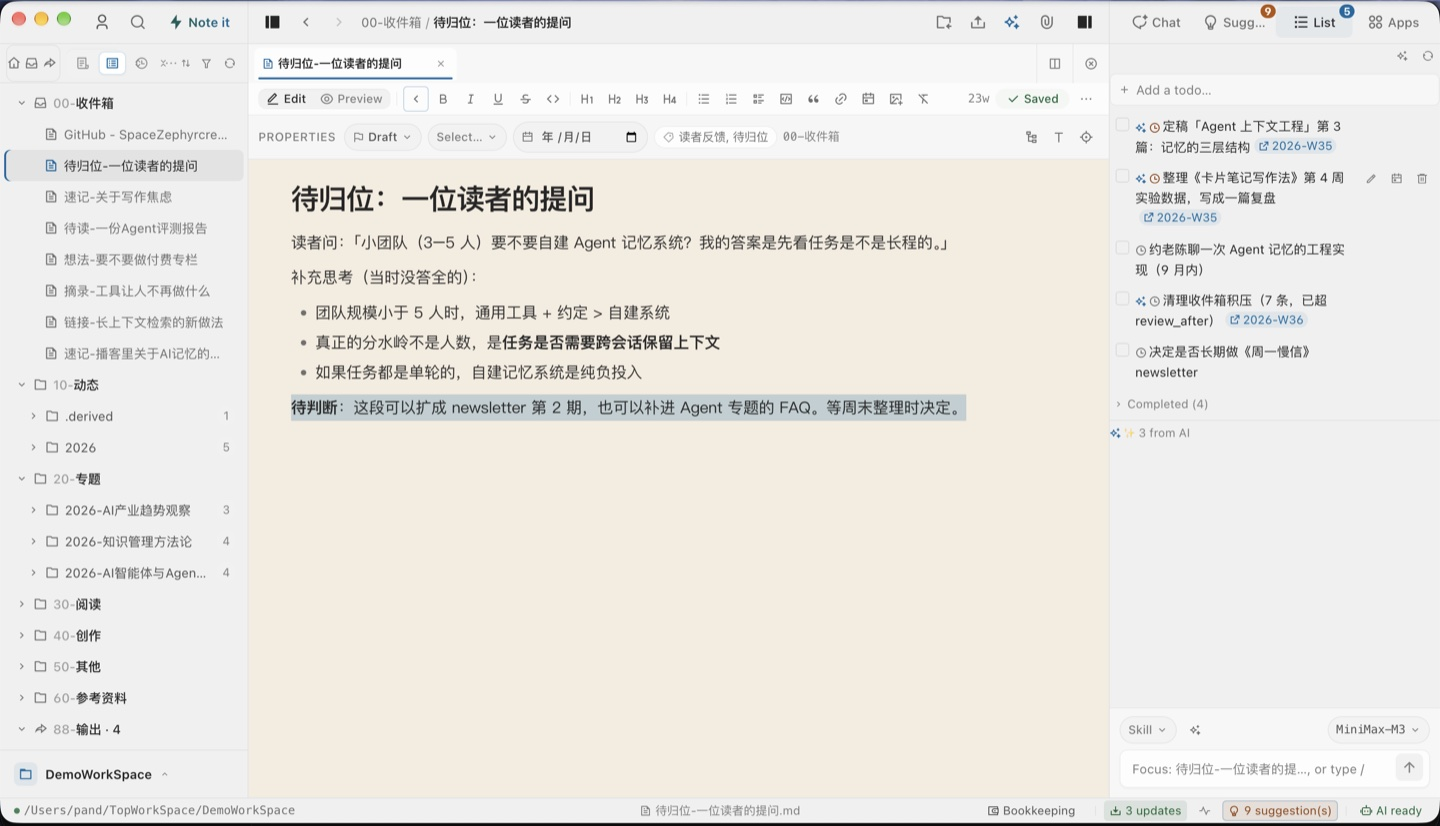
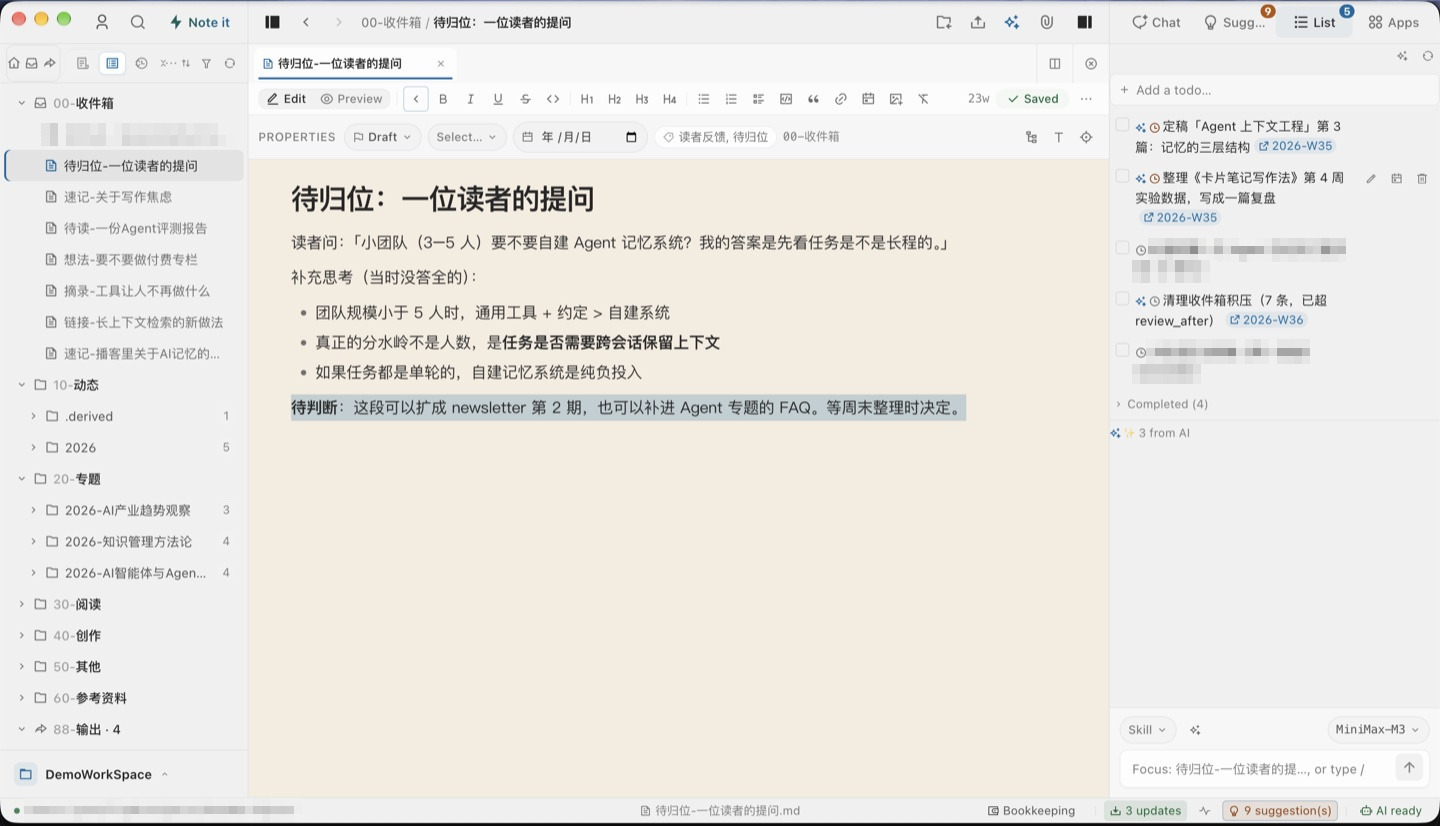
优化：截图个人信息遮挡与引用同步，README 注明 Obsidian 社区插件已上架

diff --git a/docs/images/README.en.md b/docs/images/README.en.md
@@ -3,13 +3,15 @@
 [简体中文](README.md) · [English](README.en.md)
 
 Compressed UI screenshots and the full-flow product demo live here.  
-High-resolution sources live under `topmind-desktop/resources/img/` — that directory is **gitignored** (development machine only), so treat it as the local source library, not as a repo path.
+High-resolution sources are kept locally under `topmind-desktop/resources/img/`; that directory is gitignored and not part of the repository.
+
+> **Screenshot privacy rule**: committed screenshots use a demo workspace only. Local paths, personal names, cities, pen names and third-party document names must not appear; where they did, the text is mosaic-redacted. Re-shoot in a clean demo workspace and do not edit screenshot content.
 
 > **Stills are the 2026-09 three-column chrome · Design System 4.0.5 (ZCode Neutral + MD3 warm paper)**: capture (**记一下**) lives on the ActivityBar; PrimaryNav = 动态 / Inbox / 交付 / 我的情况; search = ⌘K / ⌘P; the right column is the AI workspace (Chat · Suggest · List · Apps). Pixel/IA truth: `topmind-desktop/DESIGN.md`. Rows that still use 2026-08 chrome (TitleBar capture / 💡 / search / Apps) or the old cool-gray / dark theme are labeled as such — do not treat them as current.
 >
-> 2026-09-27 refresh: `desktop-stream.jpg` and `desktop-stream-en.jpg` both re-shot from the live app in the warm-paper theme (the English still is no longer dark mode). `desktop-ai-agent.jpg` remains a 2026-08 still of the old AI rail.
+> 2026-09-27 refresh: `desktop-stream-en.jpg` was re-shot from the live app in the warm-paper theme. `desktop-ai-agent.jpg` remains a 2026-08 still of the old AI rail.
 >
-> Media policy: the primary stills are the compressed exports of `Stream-AI建议.png` (Chinese) and `Stream-AI建议-en.png` (same surface, English chrome). The full-flow demo uses a high-fidelity color GIF as the inline format (GitHub plays `<img>` animation natively). The MP4 is the HD download fallback.
+> Media policy: the primary still is the compressed export of `Stream-AI建议-en.png` (English chrome). The full-flow demo uses a high-fidelity color GIF as the inline format (GitHub plays `<img>` animation natively). The MP4 is the HD download fallback.
 
 ---
 
@@ -27,7 +29,6 @@ High-resolution sources live under `topmind-desktop/resources/img/` — that dir
 
 | Docs image | Source (`resources/img`) | Typical use |
 |------------|--------------------------|-------------|
-| `desktop-stream.jpg` | `Stream-AI建议.png` | **Primary still (zh)** — 2026-09 ZCode warm-paper three-column workbench |
 | `desktop-stream-en.jpg` | `Stream-AI建议-en.png` | **Primary still (en)** — same surface, English chrome, same theme |
 | `desktop-ai-todo.jpg` | `AI清单.png` | AI workspace **List** pane — todos with AI provenance |
 | `desktop-apps.jpg` | `AI应用.png` | AI workspace **Apps** pane — ingest · WeRead · bookkeeping |
@@ -46,7 +47,6 @@ High-resolution sources live under `topmind-desktop/resources/img/` — that dir
 |-------|-------|
 | `obsidian-stream-zh.png` | topmind Stream plugin · stream timeline (Chinese UI) |
 | `obsidian-stream-en.png` | topmind Stream plugin · stream timeline (English UI) |
-| `obsidian-profile-zh.png` | Plugin "My Profile" memory browse (Chinese UI) |
 | `obsidian-suggestions-zh.png` | Plugin sidebar AI suggestions (Chinese UI) |
 | `obsidian-todos-zh.png` | Plugin sidebar todos (Chinese UI) |
 
@@ -56,7 +56,7 @@ Stills other than the four panes above were exported before the three-column swi
 
 | Document | Usage |
 |----------|-------|
-| [`../../README.md`](../../README.md) · [`README.zh-CN.md`](../../README.zh-CN.md) | Overview (zh): `desktop-stream.jpg` primary, English chrome alongside (bilingual demo) + GIF + MP4 fallback |
+| [`../../README.md`](../../README.md) · [`README.zh-CN.md`](../../README.zh-CN.md) | Overview (zh): `desktop-stream-en.jpg` primary + GIF + MP4 fallback |
 | [`../../README.en.md`](../../README.en.md) | Overview (en): `desktop-stream-en.jpg` primary, Chinese chrome alongside + GIF + MP4 fallback |
 | [`../../topmind-desktop/README.md`](../../topmind-desktop/README.md) · [`README.zh-CN.md`](../../topmind-desktop/README.zh-CN.md) | Workbench (zh): core still + List/Apps panes + GIF + interaction map |
 | [`../../topmind-desktop/README.en.md`](../../topmind-desktop/README.en.md) | Workbench (en): English core still + same panes |
@@ -66,7 +66,7 @@ Stills other than the four panes above were exported before the three-column swi
 ```bash
 # Export a still: fit the longest edge to 1440px, then JPEG q85
 sips -Z 1440 -s format jpeg -s formatOptions 85 \
-  "topmind-desktop/resources/img/Stream-AI建议.png" --out docs/images/desktop-stream.jpg
+  "topmind-desktop/resources/img/Stream-AI建议-en.png" --out docs/images/desktop-stream-en.jpg
 
 # Narrow AI-workspace pane crops are already 1x — export without resampling
 sips -s format jpeg -s formatOptions 88 \

diff --git a/docs/images/README.md b/docs/images/README.md
@@ -3,11 +3,13 @@
 [简体中文](README.md) · [English](README.en.md)
 
 本目录存放项目文档引用的**已智能压缩** UI 界面图与**全流程动态演示**资源。  
-高清源图在 `topmind-desktop/resources/img/`——该目录**已被 gitignore**（只存在于开发机），请把它当作本机源图库，而不是仓库路径。
+高清源图放在本地的 `topmind-desktop/resources/img/`，该目录已被 gitignore，不在仓库里。
+
+> **截图隐私约定**：入库截图只用演示工作区。本机路径、人名、城市、笔名和第三方文档名一律不入图；已入库的截图里这类文字做了马赛克处理。重新截图请在干净的演示工作区里进行，不要对截图做内容改写。
 
 > **静帧为 2026-09 三栏 chrome · Design System 4.0.5（ZCode Neutral + MD3 暖纸色）**：ActivityBar 记一下；主锚 动态 / Inbox / 交付 / 我的情况；搜索 = ⌘K / ⌘P；右栏是 AI 工作区（对话 / 建议 / 清单 / 应用）。像素 / IA 真源见 `topmind-desktop/DESIGN.md`。若某行仍沿用 2026-08 旧 chrome（TitleBar：记一下 / 💡 / 搜索 / Apps）或冷灰/深色旧主题，该行会明确标注——不要当成现行界面。
 >
-> 媒体策略：主截图是同一界面的中英双份压缩导出（`desktop-stream.jpg` / `desktop-stream-en.jpg`；源图为开发机 `resources/img/Stream-AI建议.png` 与 `Stream-AI建议-en.png`）；全流程动态演示以高保真满彩 GIF 为主显示格式（GitHub 原生支持 `<img>` 内联动画），MP4 高清视频作为备用下载源。
+> 媒体策略：主截图是同一界面的中英双份压缩导出（主图为 `desktop-stream-en.jpg`，英文界面）；全流程动态演示以高保真满彩 GIF 为主显示格式（GitHub 原生支持 `<img>` 内联动画），MP4 高清视频作为备用下载源。
 
 ---
 
@@ -25,13 +27,11 @@
 
 | 文档图 | 源（resources/img） | 典型用途 |
 |--------|---------------------|----------|
-| `desktop-stream.jpg` | 2026-09-30 产品截图 | **中文主截图**：三栏工作台 · 动态时间轴 + 右栏 AI 建议 |
 | `desktop-stream-en.jpg` | 2026-09-30 产品截图 | **英文主截图**：三栏工作台 + AI 对话清单（check my todo） |
 | `desktop-suggest-en.jpg` | 2026-09-30 产品截图 | AI 建议分面 — Inbox needs placement（确认执行） |
 | `desktop-memory-todo-zh.jpg` | 2026-09-30 产品截图 | 我的情况（画像/周期/专题）+ 清单待办表 |
 | `desktop-settings-general-zh.jpg` | 2026-09-30 产品截图 | 设置 · 通用（主题/色彩种子/界面色调/语言） |
 | `desktop-settings-general-en.jpg` | 2026-09-30 产品截图 | Settings · General (Theme / Color seed / Language) |
-| `desktop-settings-ai-zh.jpg` | 2026-09-30 产品截图 | 设置 · AI（供应商/模型/API Key 双层加密/Agent 步数） |
 | `desktop-ai-todo.jpg` | `AI清单.png` | AI 工作区**清单**分面 —— 带 AI 来源标记的待办 |
 | `desktop-apps.jpg` | `AI应用.png` | AI 工作区**应用**分面 —— 知识加工 · 微信读书 · 记账 |
 | `desktop-editor.jpg` | `文章查看-编辑器.png` | Quiet Paper 专注 Markdown 编辑器 |
@@ -47,7 +47,6 @@
 |--------|------|
 | `obsidian-stream-zh.png` | topmind Stream 插件 · 动态时间轴（中文 UI） |
 | `obsidian-stream-en.png` | topmind Stream 插件 · 动态时间轴（英文 UI） |
-| `obsidian-profile-zh.png` | 插件「我的情况」记忆浏览（中文 UI） |
 | `obsidian-suggestions-zh.png` | 插件侧栏 AI 建议（中文 UI） |
 | `obsidian-todos-zh.png` | 插件侧栏清单（中文 UI） |
 
@@ -57,7 +56,7 @@
 
 | 文档 | 用法 |
 |------|------|
-| [`../../README.md`](../../README.md) · [`README.zh-CN.md`](../../README.zh-CN.md) | 中文总览：`desktop-stream.jpg` 为主图，并列英文 chrome（双语演示）+ GIF + MP4 备用 |
+| [`../../README.md`](../../README.md) · [`README.zh-CN.md`](../../README.zh-CN.md) | 中文总览：`desktop-stream-en.jpg` 为主图 + GIF + MP4 备用 |
 | [`../../README.en.md`](../../README.en.md) | 英文总览：`desktop-stream-en.jpg` 为主图，并列中文 chrome + GIF + MP4 备用 |
 | [`../../topmind-desktop/README.md`](../../topmind-desktop/README.md) · [`README.zh-CN.md`](../../topmind-desktop/README.zh-CN.md) | 富工作台：中文核心截图 + 清单/应用分面 + GIF + 功能心智表 |
 | [`../../topmind-desktop/README.en.md`](../../topmind-desktop/README.en.md) | 富工作台：英文核心截图 + 同上 |
@@ -67,7 +66,7 @@
 ```bash
 # 导出静帧：最长边缩到 1440px，再转 JPEG q85
 sips -Z 1440 -s format jpeg -s formatOptions 85 \
-  "topmind-desktop/resources/img/Stream-AI建议.png" --out docs/images/desktop-stream.jpg
+  "topmind-desktop/resources/img/Stream-AI建议-en.png" --out docs/images/desktop-stream-en.jpg
 
 # 右栏 AI 工作区窄裁图本身是 1x，无需重采样
 sips -s format jpeg -s formatOptions 88 \

diff --git a/docs/images/README.zh-CN.md b/docs/images/README.zh-CN.md
@@ -3,11 +3,13 @@
 [简体中文](README.md) · [English](README.en.md)
 
 本目录存放项目文档引用的**已智能压缩** UI 界面图与**全流程动态演示**资源。  
-高清源图在 `topmind-desktop/resources/img/`——该目录**已被 gitignore**（只存在于开发机），请把它当作本机源图库，而不是仓库路径。
+高清源图放在本地的 `topmind-desktop/resources/img/`，该目录已被 gitignore，不在仓库里。
+
+> **截图隐私约定**：入库截图只用演示工作区。本机路径、人名、城市、笔名和第三方文档名一律不入图；已入库的截图里这类文字做了马赛克处理。重新截图请在干净的演示工作区里进行，不要对截图做内容改写。
 
 > **静帧为 2026-09 三栏 chrome · Design System 4.0.5（ZCode Neutral + MD3 暖纸色）**：ActivityBar 记一下；主锚 动态 / Inbox / 交付 / 我的情况；搜索 = ⌘K / ⌘P；右栏是 AI 工作区（对话 / 建议 / 清单 / 应用）。像素 / IA 真源见 `topmind-desktop/DESIGN.md`。若某行仍沿用 2026-08 旧 chrome（TitleBar：记一下 / 💡 / 搜索 / Apps）或冷灰/深色旧主题，该行会明确标注——不要当成现行界面。
 >
-> 媒体策略：主截图是同一界面的中英双份压缩导出（`desktop-stream.jpg` / `desktop-stream-en.jpg`；源图为开发机 `resources/img/Stream-AI建议.png` 与 `Stream-AI建议-en.png`）；全流程动态演示以高保真满彩 GIF 为主显示格式（GitHub 原生支持 `<img>` 内联动画），MP4 高清视频作为备用下载源。
+> 媒体策略：主截图是同一界面的中英双份压缩导出（主图为 `desktop-stream-en.jpg`，英文界面）；全流程动态演示以高保真满彩 GIF 为主显示格式（GitHub 原生支持 `<img>` 内联动画），MP4 高清视频作为备用下载源。
 
 ---
 
@@ -25,13 +27,11 @@
 
 | 文档图 | 源（resources/img） | 典型用途 |
 |--------|---------------------|----------|
-| `desktop-stream.jpg` | 2026-09-30 产品截图 | **中文主截图**：三栏工作台 · 动态时间轴 + 右栏 AI 建议 |
 | `desktop-stream-en.jpg` | 2026-09-30 产品截图 | **英文主截图**：三栏工作台 + AI 对话清单（check my todo） |
 | `desktop-suggest-en.jpg` | 2026-09-30 产品截图 | AI 建议分面 — Inbox needs placement（确认执行） |
 | `desktop-memory-todo-zh.jpg` | 2026-09-30 产品截图 | 我的情况（画像/周期/专题）+ 清单待办表 |
 | `desktop-settings-general-zh.jpg` | 2026-09-30 产品截图 | 设置 · 通用（主题/色彩种子/界面色调/语言） |
 | `desktop-settings-general-en.jpg` | 2026-09-30 产品截图 | Settings · General (Theme / Color seed / Language) |
-| `desktop-settings-ai-zh.jpg` | 2026-09-30 产品截图 | 设置 · AI（供应商/模型/API Key 双层加密/Agent 步数） |
 | `desktop-ai-todo.jpg` | `AI清单.png` | AI 工作区**清单**分面 —— 带 AI 来源标记的待办 |
 | `desktop-apps.jpg` | `AI应用.png` | AI 工作区**应用**分面 —— 知识加工 · 微信读书 · 记账 |
 | `desktop-editor.jpg` | `文章查看-编辑器.png` | Quiet Paper 专注 Markdown 编辑器 |
@@ -47,7 +47,6 @@
 |--------|------|
 | `obsidian-stream-zh.png` | topmind Stream 插件 · 动态时间轴（中文 UI） |
 | `obsidian-stream-en.png` | topmind Stream 插件 · 动态时间轴（英文 UI） |
-| `obsidian-profile-zh.png` | 插件「我的情况」记忆浏览（中文 UI） |
 | `obsidian-suggestions-zh.png` | 插件侧栏 AI 建议（中文 UI） |
 | `obsidian-todos-zh.png` | 插件侧栏清单（中文 UI） |
 
@@ -57,7 +56,7 @@
 
 | 文档 | 用法 |
 |------|------|
-| [`../../README.md`](../../README.md) · [`README.zh-CN.md`](../../README.zh-CN.md) | 中文总览：`desktop-stream.jpg` 为主图，并列英文 chrome（双语演示）+ GIF + MP4 备用 |
+| [`../../README.md`](../../README.md) · [`README.zh-CN.md`](../../README.zh-CN.md) | 中文总览：`desktop-stream-en.jpg` 为主图 + GIF + MP4 备用 |
 | [`../../README.en.md`](../../README.en.md) | 英文总览：`desktop-stream-en.jpg` 为主图，并列中文 chrome + GIF + MP4 备用 |
 | [`../../topmind-desktop/README.md`](../../topmind-desktop/README.md) · [`README.zh-CN.md`](../../topmind-desktop/README.zh-CN.md) | 富工作台：中文核心截图 + 清单/应用分面 + GIF + 功能心智表 |
 | [`../../topmind-desktop/README.en.md`](../../topmind-desktop/README.en.md) | 富工作台：英文核心截图 + 同上 |
@@ -67,7 +66,7 @@
 ```bash
 # 导出静帧：最长边缩到 1440px，再转 JPEG q85
 sips -Z 1440 -s format jpeg -s formatOptions 85 \
-  "topmind-desktop/resources/img/Stream-AI建议.png" --out docs/images/desktop-stream.jpg
+  "topmind-desktop/resources/img/Stream-AI建议-en.png" --out docs/images/desktop-stream-en.jpg
 
 # 右栏 AI 工作区窄裁图本身是 1x，无需重采样
 sips -s format jpeg -s formatOptions 88 \

diff --git a/README.en.md b/README.en.md
@@ -23,10 +23,6 @@ Navigation → stream timeline → AI workspace (**Chat · Suggest · List · Ap
   <img src="./docs/images/desktop-stream-en.jpg" alt="topmind Desktop three-column workbench with AI chat todo panel (English)" width="820" />
 </p>
 
-<p align="center">
-  <img src="./docs/images/desktop-stream.jpg" alt="Topmind Desktop 三栏工作台 + AI 建议（简体中文）" width="820" />
-</p>
-
 AI workspace tabs: **Chat** (multi-step tool agent) · **Suggest** (confirm to settle) · **List** (`memory/todo.md`) · **Apps** (connectors).
 
 | AI Suggest (inbox placement) | My profile · List |
@@ -35,9 +31,9 @@ AI workspace tabs: **Chat** (multi-step tool agent) · **Suggest** (confirm to s
 
 ### Settings (bilingual · dual-layer keys)
 
-| General | AI provider |
+| General (English) | General (Simplified Chinese) |
 |---|---|
-| <img src="./docs/images/desktop-settings-general-en.jpg" alt="Settings — general appearance and layout" width="400" /> | <img src="./docs/images/desktop-settings-ai-zh.jpg" alt="AI provider and model settings" width="400" /> |
+| <img src="./docs/images/desktop-settings-general-en.jpg" alt="Settings — general appearance and layout" width="400" /> | <img src="./docs/images/desktop-settings-general-zh.jpg" alt="Settings: general (appearance and layout)" width="400" /> |
 
 - API keys use **safeStorage + local AES** dual-layer encryption (survive upgrade / re-sign)
 - Live model catalogs from 14 providers (models.dev + official endpoints)
@@ -106,7 +102,7 @@ topmind  =  Portable Skills  ⊕  Optional Desktop  ⊕  Optional UTR  ⊕  Opti
 |---|---|
 | ![AI Suggestions](docs/images/obsidian-suggestions-zh.png) | ![Todos](docs/images/obsidian-todos-zh.png) |
 
-- **Option A — Community Plugin Store** *(submission in review)*: after listing, search `Topmind Stream` under **Settings → Community plugins → Browse**.
+- **Option A — Community Plugin Store** *(listed)*: search `Topmind Stream` under **Settings → Community plugins → Browse**.
 - **Option B — BRAT**: add the GitHub repo `topmindspace/topmind-obsidian` in BRAT.
 - **Option C — Manual zip**: download `topmind-obsidian-<ver>.zip` from [Releases](https://github.com/topmindspace/topmind-obsidian/releases) and extract to `<Vault>/.obsidian/plugins/topmind-stream/`.
 - After enabling, open the command palette (`⌘P` / `Ctrl+P`) and run **Topmind: Open Stream**.

diff --git a/README.md b/README.md
@@ -20,10 +20,6 @@
 导航 → 动态流时间轴 → AI 工作区（**对话 · 建议 · 清单 · 应用**）。主线是本周动态；AI 负责提议，落盘前一律等你确认。界面提供 **简体中文 / English** 双语 chrome（跟系统语言；工作区内容语言不受影响）。
 
 <p align="center">
-  <img src="./docs/images/desktop-stream.jpg" alt="Topmind Desktop 三栏工作台：动态流时间轴 + AI 建议（简体中文）" width="820" />
-</p>
-
-<p align="center">
   <img src="./docs/images/desktop-stream-en.jpg" alt="topmind Desktop three-column workbench with AI chat todo panel (English)" width="820" />
 </p>
 
@@ -35,9 +31,9 @@ AI 工作区四页签：**对话**（多步工具智能体）· **建议**（确
 
 ### 设置（双语 · 双层密钥）
 
-| 通用设置 | AI 供应商 |
+| 通用设置（English） | 通用设置（简体中文） |
 |---|---|
-| <img src="./docs/images/desktop-settings-general-en.jpg" alt="Settings — general appearance and layout" width="400" /> | <img src="./docs/images/desktop-settings-ai-zh.jpg" alt="AI provider and model settings" width="400" /> |
+| <img src="./docs/images/desktop-settings-general-en.jpg" alt="Settings — general appearance and layout" width="400" /> | <img src="./docs/images/desktop-settings-general-zh.jpg" alt="设置：通用（外观与布局）" width="400" /> |
 
 - 密钥 **safeStorage + 本机 AES** 双层，升级/重签名后保留
 - 14 家供应商实时模型列表（models.dev + 官方接口）
@@ -104,7 +100,7 @@ topmind  =  Portable Skills  ⊕  Optional Desktop  ⊕  Optional UTR  ⊕  Opti
 | ![AI 建议](docs/images/obsidian-suggestions-zh.png) | ![清单](docs/images/obsidian-todos-zh.png) |
 
 - **方式 A：Obsidian 官方社区插件市场**：
-  *（官方社区插件审核发布中）* 上架后可在 Obsidian **设置 ➔ 社区插件 ➔ 浏览** 搜索 `topmind stream` 一键安装。
+  已上架官方社区插件市场：在 Obsidian **设置 ➔ 社区插件 ➔ 浏览** 搜索 `topmind stream` 一键安装。
 - **方式 B：BRAT 插件一键安装**：
   在 Obsidian BRAT 插件中添加 GitHub 仓库 `topmindspace/topmind-obsidian`。
 - **方式 C：手动解压安装**：

diff --git a/README.zh-CN.md b/README.zh-CN.md
@@ -20,10 +20,6 @@
 导航 → 动态流时间轴 → AI 工作区（**对话 · 建议 · 清单 · 应用**）。主线是本周动态；AI 负责提议，落盘前一律等你确认。界面提供 **简体中文 / English** 双语 chrome（跟系统语言；工作区内容语言不受影响）。
 
 <p align="center">
-  <img src="./docs/images/desktop-stream.jpg" alt="Topmind Desktop 三栏工作台：动态流时间轴 + AI 建议（简体中文）" width="820" />
-</p>
-
-<p align="center">
   <img src="./docs/images/desktop-stream-en.jpg" alt="topmind Desktop three-column workbench with AI chat todo panel (English)" width="820" />
 </p>
 
@@ -35,9 +31,9 @@ AI 工作区四页签：**对话**（多步工具智能体）· **建议**（确
 
 ### 设置（双语 · 双层密钥）
 
-| 通用设置 | AI 供应商 |
+| 通用设置（English） | 通用设置（简体中文） |
 |---|---|
-| <img src="./docs/images/desktop-settings-general-en.jpg" alt="Settings — general appearance and layout" width="400" /> | <img src="./docs/images/desktop-settings-ai-zh.jpg" alt="AI provider and model settings" width="400" /> |
+| <img src="./docs/images/desktop-settings-general-en.jpg" alt="Settings — general appearance and layout" width="400" /> | <img src="./docs/images/desktop-settings-general-zh.jpg" alt="设置：通用（外观与布局）" width="400" /> |
 
 - 密钥 **safeStorage + 本机 AES** 双层，升级/重签名后保留
 - 14 家供应商实时模型列表（models.dev + 官方接口）
@@ -104,7 +100,7 @@ topmind  =  Portable Skills  ⊕  Optional Desktop  ⊕  Optional UTR  ⊕  Opti
 | ![AI 建议](docs/images/obsidian-suggestions-zh.png) | ![清单](docs/images/obsidian-todos-zh.png) |
 
 - **方式 A：Obsidian 官方社区插件市场**：
-  *（官方社区插件审核发布中）* 上架后可在 Obsidian **设置 ➔ 社区插件 ➔ 浏览** 搜索 `topmind stream` 一键安装。
+  已上架官方社区插件市场：在 Obsidian **设置 ➔ 社区插件 ➔ 浏览** 搜索 `topmind stream` 一键安装。
 - **方式 B：BRAT 插件一键安装**：
   在 Obsidian BRAT 插件中添加 GitHub 仓库 `topmindspace/topmind-obsidian`。
 - **方式 C：手动解压安装**：

diff --git a/topmind-desktop/README.md b/topmind-desktop/README.md
@@ -43,7 +43,7 @@
 默认三栏：**导航 -> 动态 -> AI 工作区**。主叙事是动态时间轴；右栏 AI 工作区收纳 **对话 · 建议 · 清单 · 应用**。
 
 <p align="center">
-  <img src="../docs/images/desktop-stream.jpg" alt="Topmind Desktop 三栏工作台 · 动态时间轴与 AI 工作区" width="820" />
+  <img src="../docs/images/desktop-stream-en.jpg" alt="Topmind Desktop 三栏工作台 · 动态时间轴与 AI 工作区（英文界面）" width="820" />
 </p>
 
 ### 2. AI 工作区分面

diff --git a/topmind-desktop/README.zh-CN.md b/topmind-desktop/README.zh-CN.md
@@ -43,7 +43,7 @@
 默认三栏：**导航 -> 动态 -> AI 工作区**。主叙事是动态时间轴；右栏 AI 工作区收纳 **对话 · 建议 · 清单 · 应用**。
 
 <p align="center">
-  <img src="../docs/images/desktop-stream.jpg" alt="Topmind Desktop 三栏工作台 · 动态时间轴与 AI 工作区" width="820" />
+  <img src="../docs/images/desktop-stream-en.jpg" alt="Topmind Desktop 三栏工作台 · 动态时间轴与 AI 工作区（英文界面）" width="820" />
 </p>
 
 ### 2. AI 工作区分面
